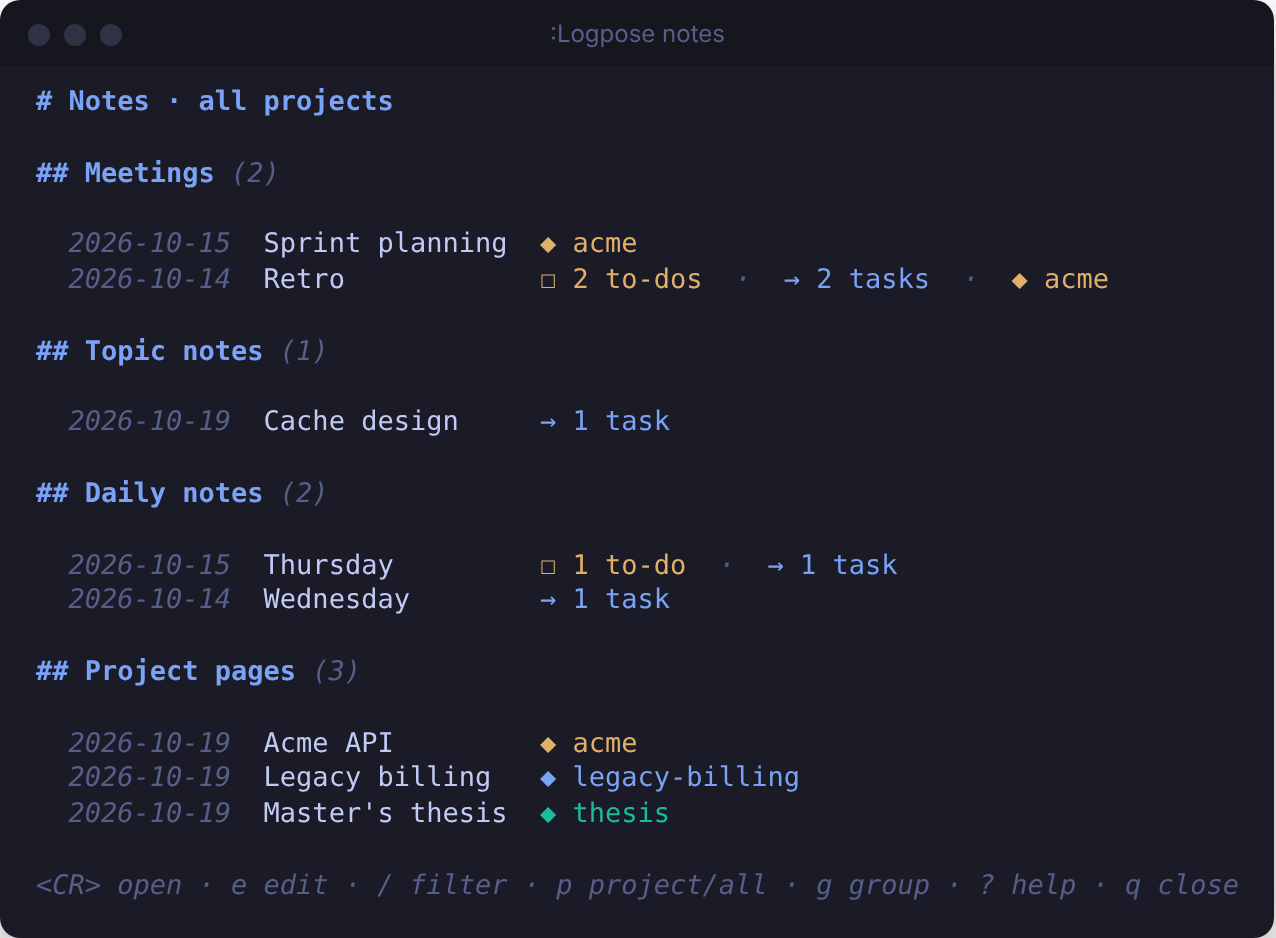
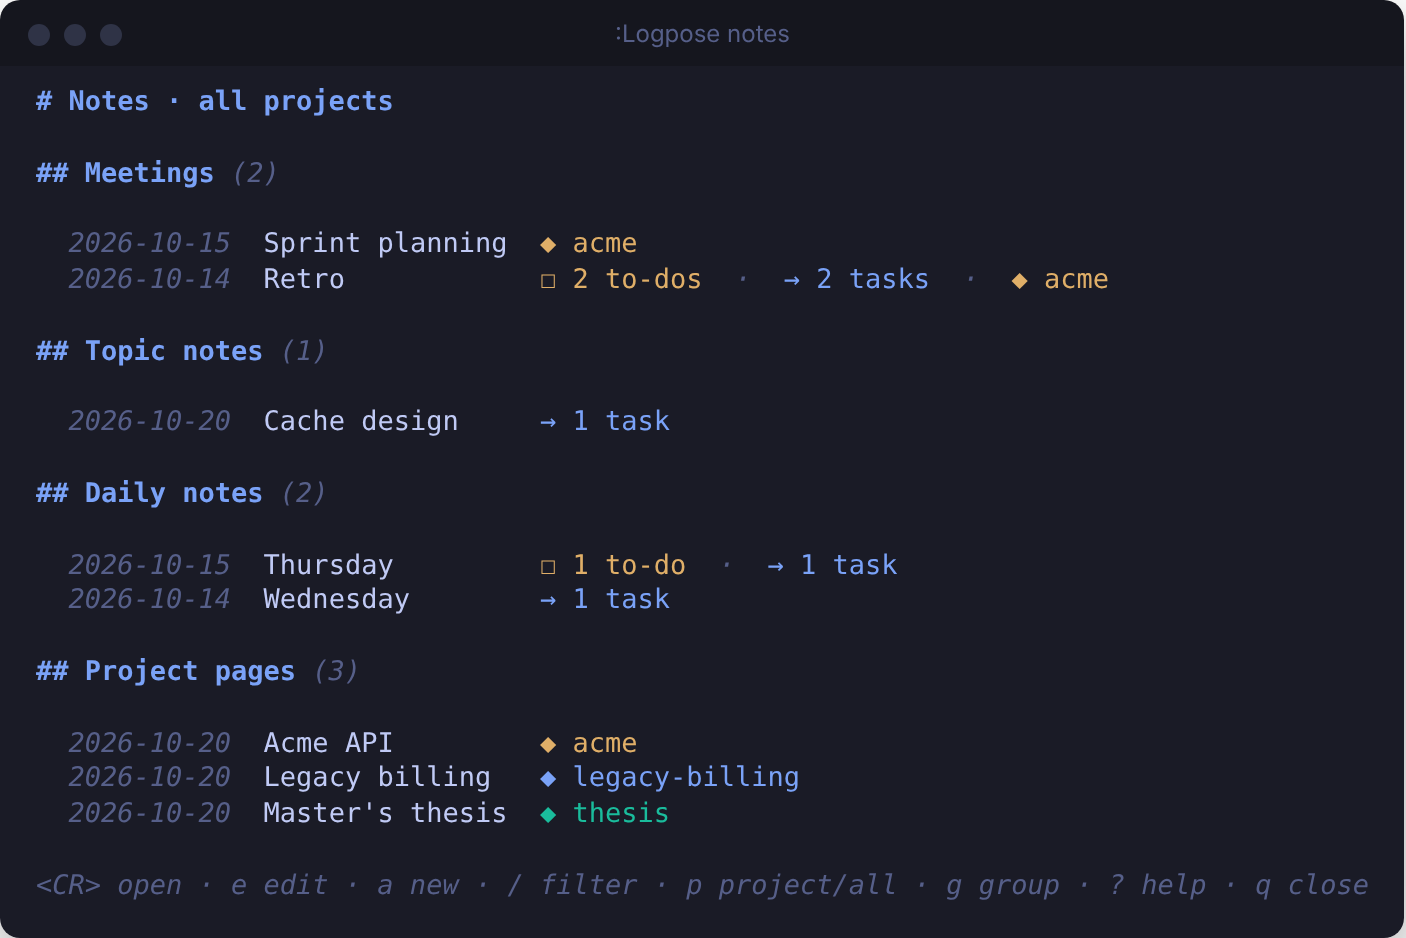
docs: new-note forms

diff --git a/docs/SPEC.md b/docs/SPEC.md
@@ -64,7 +64,7 @@ capture/done, sprint-aware archives and reports.
 
 **Releases.** Annotated tags in `MAJOR.MINOR.PATCH` form (no `v` prefix). Each completed feature
 bumps the minor version (0.1.0 = F0+F1, 0.2.0 = F1.5, 0.3.0 = F1.6, 0.4.0 = F2, 0.5.0 = F2.1, 0.6.0 = F3, 0.7.0 = F4, 0.8.0 = F5, 0.9.0 = F6, 0.10.0 = O1, 0.11.0 = O2, 0.12.0 = O3, 0.13.0 = O4, 0.14.0 = O5, 0.15.0 = O6, 0.16.0 = F7,
-0.17.0 = F8, 0.18.0 = T1, 0.19.0 = live search and previews, 0.20.0 = B1, 0.21.0 = markdownlint-clean notes, 0.22.0 = timestamps, board look and delete, 0.23.0 = peek, scrolling columns, WIP limits and age, 0.23.1 = board resize fixes, 0.24.0 = command menu, statusline, board undo, 0.25.0 = today, keymaps preset, titled notifications, board extras, 0.25.1 = docs rewrite, 0.26.0 = project manager, project completion and board-follows-project fixes, 0.27.0 = project switcher, project pages as registry, moving tasks between projects, merging projects, 0.28.0 = switching opens the board, 0.28.1 = board and projects split into modules, tests 40× faster, 0.28.2 = caching for big journals, 0.29.0 = frontmatter editor, 0.30.0 = capture picks the project, form rework, bulk edits, 0.30.1 = completion menu closes after a choice, 0.30.2 = <CR> accepts from the menu, nvim-cmp off in the form, 0.31.0 = the edit form stays open after saving, 0.32.0 = card redesign, 0.32.1 = automatic project colours, no cursorline on the board, 0.33.0 = borders tinted with the project's colour, 0.34.0 = column-coloured borders by default again, tags as chips, 0.35.0 = shared date wording and frontmatter writer; triage, move and the switcher removed, 0.36.0 = new-task form, 0.37.0 = linked notes on cards, recently edited notes on today, 0.38.0 = tasks, notes and to-dos kept apart; INBOX, DONE and migrate removed, 0.39.0 = notes screen); fixes bump the patch;
+0.17.0 = F8, 0.18.0 = T1, 0.19.0 = live search and previews, 0.20.0 = B1, 0.21.0 = markdownlint-clean notes, 0.22.0 = timestamps, board look and delete, 0.23.0 = peek, scrolling columns, WIP limits and age, 0.23.1 = board resize fixes, 0.24.0 = command menu, statusline, board undo, 0.25.0 = today, keymaps preset, titled notifications, board extras, 0.25.1 = docs rewrite, 0.26.0 = project manager, project completion and board-follows-project fixes, 0.27.0 = project switcher, project pages as registry, moving tasks between projects, merging projects, 0.28.0 = switching opens the board, 0.28.1 = board and projects split into modules, tests 40× faster, 0.28.2 = caching for big journals, 0.29.0 = frontmatter editor, 0.30.0 = capture picks the project, form rework, bulk edits, 0.30.1 = completion menu closes after a choice, 0.30.2 = <CR> accepts from the menu, nvim-cmp off in the form, 0.31.0 = the edit form stays open after saving, 0.32.0 = card redesign, 0.32.1 = automatic project colours, no cursorline on the board, 0.33.0 = borders tinted with the project's colour, 0.34.0 = column-coloured borders by default again, tags as chips, 0.35.0 = shared date wording and frontmatter writer; triage, move and the switcher removed, 0.36.0 = new-task form, 0.37.0 = linked notes on cards, recently edited notes on today, 0.38.0 = tasks, notes and to-dos kept apart; INBOX, DONE and migrate removed, 0.39.0 = notes screen, 0.40.0 = new-note forms); fixes bump the patch;
 1.0.0 once M3 is done.
 
 ---
@@ -1094,6 +1094,34 @@ commands and screens mixed them. Keep one word per thing, everywhere.
   `q`, `?`. Re-renders on `BufEnter`, keeping the cursor on the same note.
 - Default scope is the active project (`project.resolve`); the projects screen's `f` opens it
   for that project. Keymap preset: `<leader>jl`. Highlights `LogposeNotes*`.
+
+## C3 — New-note forms (0.40.0)
+
+**Goal.** Set a note's frontmatter (tags above all) while creating it, as the new-task form does
+for tasks.
+
+**Design**
+- `fields.load_new_note(root, kind, defaults)`: `meeting` (`type`, `title`, `date`, `project`,
+  `attendees`, `tags`; first type, today, the active project) or `topic` (`title`, `project`,
+  `tags`). `model.new` with a non-task kind.
+- A new meeting's `title` follows its type (`meeting.title_for(key, field)`): empty → the type's
+  title; another text → replaces it (series unchanged); for a type with a `prompt` it's the
+  answer (`input`: a 1:1's person, an ad-hoc title) and can't be empty. `fields.meeting_title`
+  sets the hint (`r.hints.title`, which the form prefers over `HINTS`), the note (`→ 1:1 Ana`)
+  and `r.meeting`. Title candidates: people for person types, past titles of the type otherwise.
+  Type candidates follow `meeting.types()` order.
+- Preview (`new_effects(model, r, ctx)`): for a meeting, `fields.build_meeting` runs
+  `meeting.build` (cached in the form's ctx by its inputs) to say the path, the daily-note link,
+  and what the series carries over (`carry over N open to-dos from <title> (<date>)`, or `link
+  the previous …`); an existing file → `open the existing …`. Topic: the path, project, tags.
+- `meeting.build(..., extra)`: `extra.title` overrides the title (and slug), `extra.tags` adds
+  `tags:`. `meeting.write(root, note, no_open)` (was the local `write_and_open`). `topic.note`
+  takes `{ project, tags, open }` and returns `path, cursor, existed`; `topic.note_path`.
+- Saving (`save.create_note`) creates the note without opening it; the form then closes itself
+  and opens the note at the template's cursor. A note that exists is opened untouched.
+- Entry points: `:Logpose meeting` without a type (a date-only argument prefills `date`),
+  `:Logpose note` without a title, the notes screen's `a` (by section), `n`, `m`
+  (`edit.open_new_note`). The edit form for existing meetings gains `tags`.
 
 ## 5. Command reference (final state)
 

diff --git a/README.md b/README.md
@@ -159,11 +159,32 @@ and blocked tasks (with the reason) under Blockers. Items are grouped by their p
 carried over.**
 
 ```vim
-:Logpose meeting              " pick a type
-:Logpose meeting retro        " or name it
+:Logpose meeting              " the new-meeting form: type, title, date, people, tags
+:Logpose meeting retro        " or straight away, by type
 :Logpose meeting 1on1         " asks who the 1:1 is with
 :Logpose meeting adhoc 2026-10-14   " a date backfills a note
 ```
+
+**The new-meeting form.** `:Logpose meeting` without a type opens a form with every field
+filled in as far as it can be: the first type, today's date, the active project. Pick the type
+(`<CR>`), and the title follows it (`Retro`); type another title to replace it. For a 1:1 the
+title field is the person (completing people you've met), for an ad-hoc meeting its title.
+`attendees` and `tags` complete names and tags you've used. Below the fields, a summary says what
+saving will do before anything exists:
+
+```text
+saving will:
+• create meetings/acme/2026-10-22 - retro.md
+• link it from the daily note of Thu 22 Oct
+• carry over 2 open to-dos from Retro (Thu 8 Oct)
+• then open it to write
+```
+
+`<C-s>` creates the note, closes the form and puts you in the note where the template's cursor
+goes. `q` closes the form without creating anything. `:Logpose meeting 2026-10-14` opens the
+form for that day.
+
+With a type on the command line, it skips the form:
 
 | Type | Asks for | Title |
 |---|---|---|
@@ -171,7 +192,7 @@ carried over.**
 | `1on1` | the person, with completion | `1:1 Ana` |
 | `adhoc` | a title, with completion of past titles | what you type |
 
-Each note gets frontmatter (type, date, title, attendees, project) and a link under
+Each note gets frontmatter (type, date, title, attendees, project, tags) and a link under
 `## Meetings` in that day's daily note. Running the same command again on the same day opens
 the existing note instead of making a second one.
 
@@ -328,7 +349,9 @@ daily note mentioning `#acme` counts), or all of them when there's none. `f` on 
 | `p` | This project / all projects. |
 | `g` | Group by type / by project. |
 | `z` | Fold or unfold the section. |
-| `n` / `d` / `b` | New topic note / today's daily note / the board. |
+| `a` | A new note for the section you're in: a meeting under Meetings, else a topic note (in the form, with this screen's project). |
+| `n` / `m` | A new topic note / meeting, in the form. |
+| `d` / `b` | Today's daily note / the board. |
 | `r` / `q` / `?` | Refresh / close / help. |
 
 `:Logpose notes #perf` starts with a filter.
@@ -502,7 +525,7 @@ everyone with how much involves them; pick a person to see all of it.
 **Fix a task's project, a meeting's attendees or a due date without editing YAML.**
 
 It works on tasks (title, status, project, tags, due, blocked) and on notes: meetings (title,
-type, date, project, attendees), topic notes (title, project, tags) and project pages (title,
+type, date, project, attendees, tags), topic notes (title, project, tags) and project pages (title,
 description, paths, colour). The form's title says which it is (`Edit task · …`,
 `Edit meeting · …`). Other keys are left as they are.
 
@@ -550,6 +573,7 @@ tasks and run `:'<,'>Logpose edit` (see [Working on the board](#working-on-the-b
 | Command | Does |
 |---|---|
 | `:Logpose note Queue design` | Creates or opens `notes/queue-design.md`, for how-tos, decision records and references. |
+| `:Logpose note` | The new-note form: title, project and tags, then the note opens. |
 | `:Logpose project-page` | Creates or opens `projects/<project>.md`, the hub for a project. |
 | `:Logpose backlinks` | Notes linking to the current one. |
 | `:Logpose links` | Links going out of it, with missing targets flagged. |
@@ -653,7 +677,7 @@ mapping. A `!` can go on either word: `:Logpose archive!` is the same as `:Logpo
 | `today` | The day at a glance: tasks, then notes. |
 | `daily [today\|prev\|next\|DATE]` | Open (and create) a daily note. `prev`/`next` step by workday. |
 | `standup [DATE]` | Yesterday / Today / Blockers in a scratch buffer. |
-| `meeting [TYPE] [DATE]` | New meeting note. |
+| `meeting [TYPE] [DATE]` | New meeting note. Without a type, the new-meeting form. |
 
 ### Tasks
 
@@ -686,7 +710,7 @@ mapping. A `!` can go on either word: `:Logpose archive!` is the same as `:Logpo
 | Command | Does |
 |---|---|
 | `notes [FILTERS]` | The notes screen: notes by type or project, with their to-dos and linked tasks. |
-| `note [TITLE]` | Create or open a topic note. |
+| `note [TITLE]` | Create or open a topic note. Without a title, the new-note form. |
 | `project [NAME\|none]` | Switch project (the projects screen without a name), or go back to detection. |
 | `projects` | Manage projects: what needs attention, add, rename, merge, archive. |
 | `project-page [NAME]` | Create or open a project page. |
